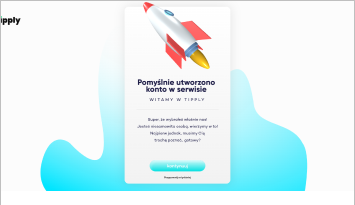
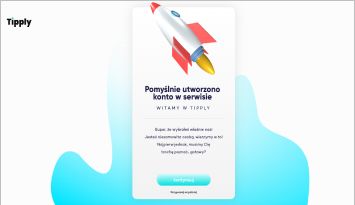
Update portfolio data

Changed region(s): [[0.093, 0.0, 0.8986, 1.0], [0.7127, 0.4683, 0.8676, 0.7902], [0.0, 0.0878, 0.093, 0.1463]]

diff --git a/data/PortfolioCards.js b/data/PortfolioCards.js
@@ -90,10 +90,10 @@ const data = [
     frameworks: [
       {
         uuid: uuid(),
-        url: "/portfolio/frameworks/next.png",
+        url: "/portfolio/frameworks/gatsby.png",
         alt: "nextjs",
-        width: 85,
-        height: 51
+        width: 53,
+        height: 53
       },
       {
         uuid: uuid(),
@@ -159,7 +159,8 @@ const data = [
   {
     uuid: uuid(),
     siteTitle: `shareyourfire.ch`,
-    siteUrl: "https://shareyourfire.ch",
+    siteUrl:
+      "https://web.archive.org/web/20210720105928/https://digitallab.allianz.ch/de",
     company: `sugo`,
     frameworks: [
       {
@@ -188,9 +189,9 @@ const data = [
   },
   {
     uuid: uuid(),
-    siteTitle: `tipply.pl - kreator nowego konta`,
-    siteUrl: "https://tipply.pl",
-    company: `sugo`,
+    siteTitle: `tipply.pl - after account creation`,
+    siteUrl: "https://tipply-pl-user-creator.vercel.app/",
+    company: `reccly`,
     frameworks: [
       {
         uuid: uuid(),
